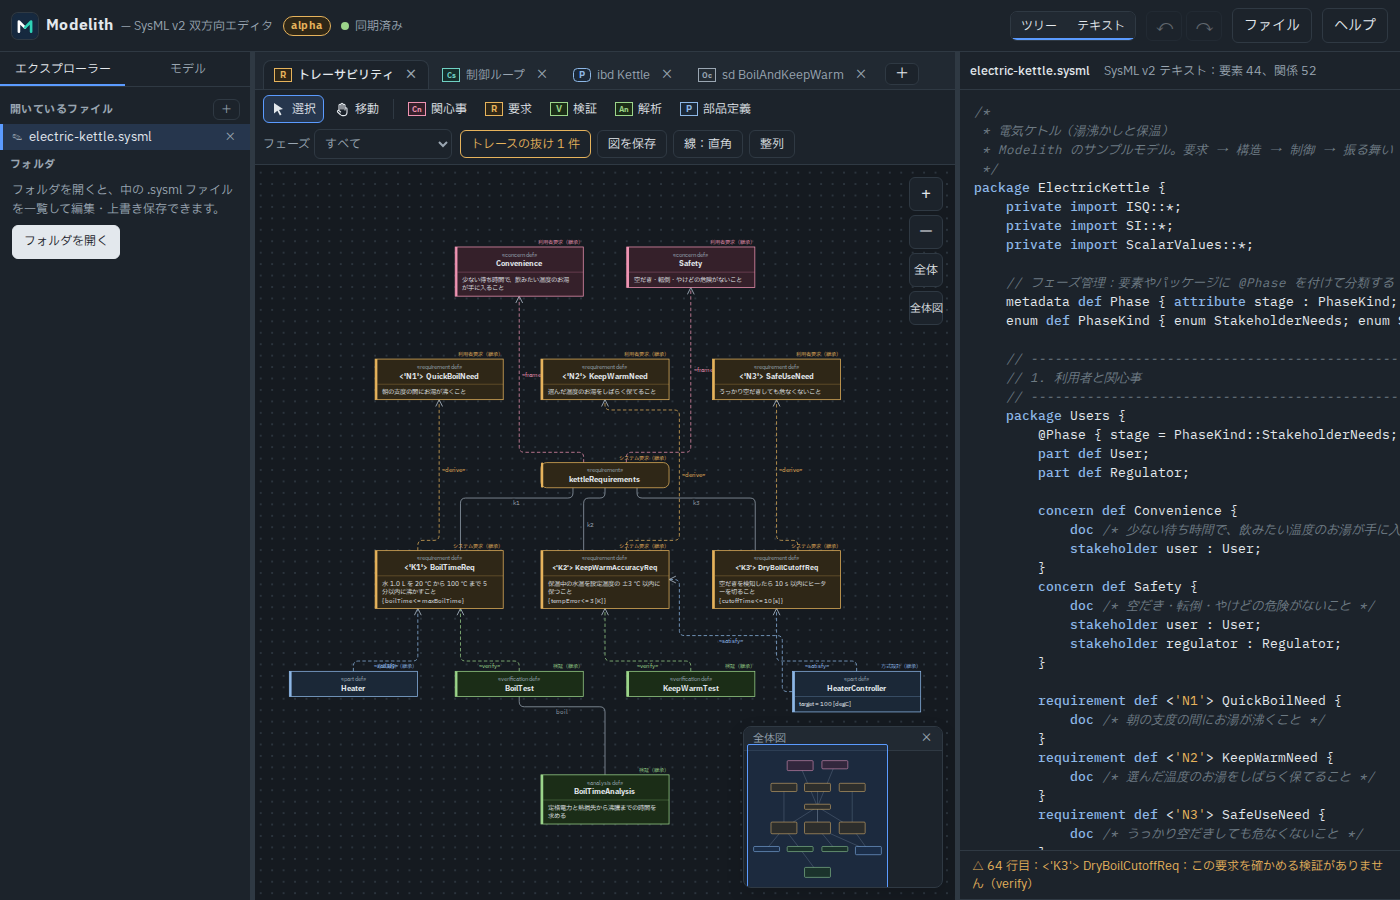
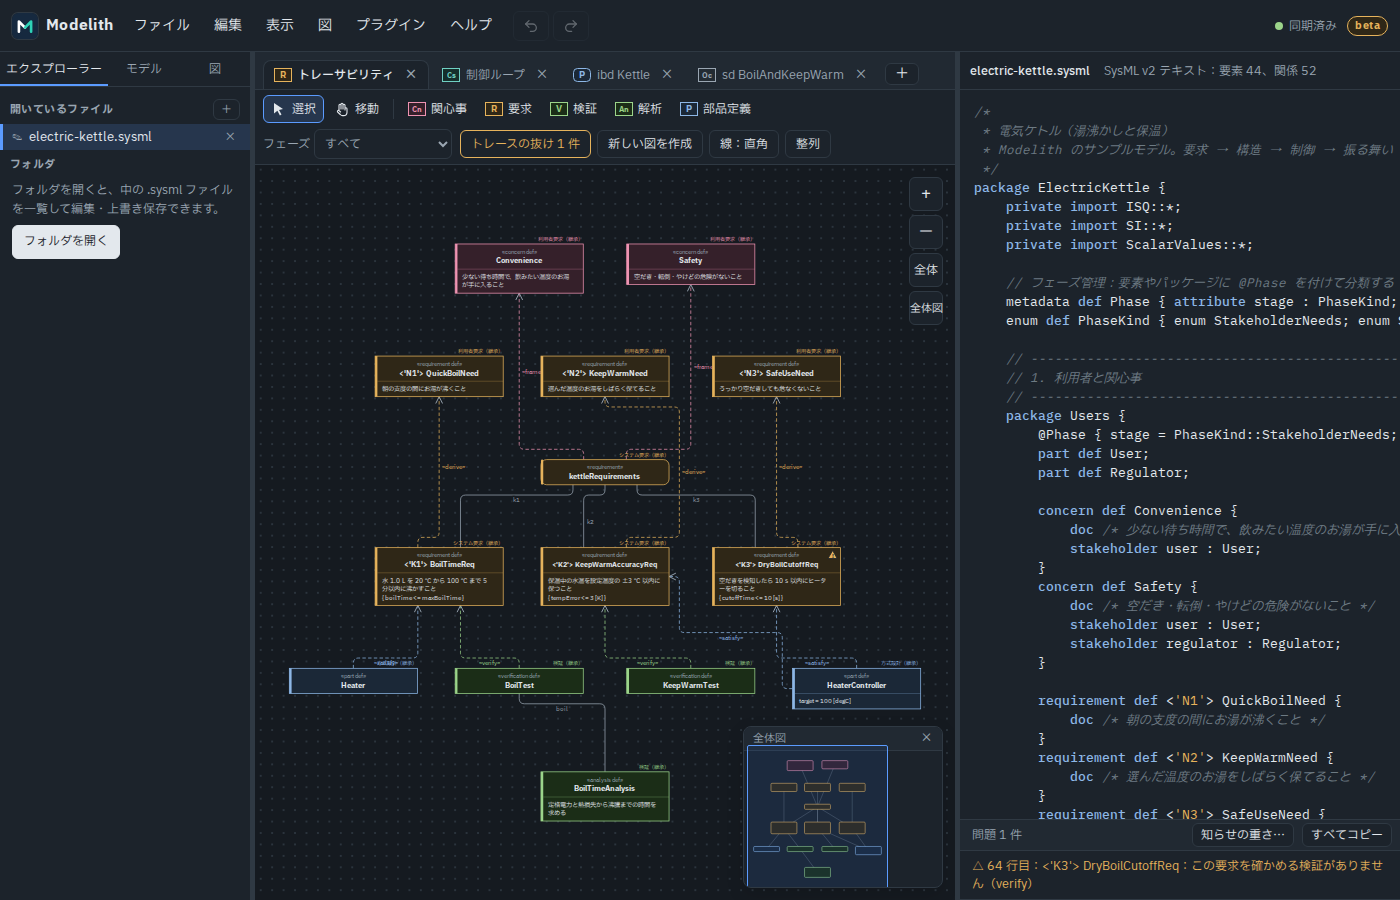
docs(profile): modelith の beta 版に合わせて内容と画面を更新 (#5)
Claude-Session: https://claude.ai/code/session_01QKQkn3Krw3LuV9fFdUHoax

diff --git a/profile/README.md b/profile/README.md
@@ -9,6 +9,7 @@
 
 <p align="center">
   <a href="https://modelith.github.io/modelith/"><b>ブラウザで試す</b></a> &nbsp;|&nbsp;
+  <a href="https://modelith.github.io/">ユーザーマニュアル</a> &nbsp;|&nbsp;
   <a href="https://github.com/modelith/modelith">ソースコード</a> &nbsp;|&nbsp;
   <a href="https://github.com/modelith/modelith/issues/new/choose">フィードバック</a> &nbsp;|&nbsp;
   <a href="https://github.com/sponsors/modelith">スポンサーになる</a>
@@ -37,11 +38,14 @@
 - **書いても、描いても、同じモデル**<br>
   テキストを打てば図に反映し、図で要素や関係を足せばテキストが書き換わります。
 
-- **目的に合わせた 7 つのビュー**<br>
-  トレーサビリティ・構造・制御ループ・内部ブロック図・振る舞い・シーケンスなど、同じモデルを見たい切り口で表示できます。SVG や draw.io 形式への書き出しにも対応しています。
+- **目的に合わせた図**<br>
+  ブロック定義図・内部ブロック図・アクティビティ図・状態遷移図・シーケンス図・トレーサビリティなど、同じモデルを見たい切り口で表示できます。SVG や draw.io 形式でエクスポートすることもできます。
 
 - **要求の抜けに気づける**<br>
-  利用者要求から方式設計・検証までのつながりをたどり、導出・充足・検証の抜けを件数と箇所で示します。
+  利用者要求から方式設計・検証までのつながりをたどり、導出・充足・検証の抜けを示します。
+
+- **SysML v2 を知らなくても読める**<br>
+  テキストのキーワードや図の名前にマウスを乗せると、その意味を表示します。
 
 - **ブラウザを開くだけ**<br>
   インストールもアカウントも不要です。手元のフォルダを VS Code のように開いて、編集・保存できます。
@@ -55,10 +59,11 @@
 | --- | --- | --- |
 | [modelith](https://github.com/modelith/modelith) | エディタ本体（Rust コア・Web アプリ・CLI） | AGPL-3.0 + [Plugin Exception](https://github.com/modelith/modelith/blob/main/PLUGIN-EXCEPTION.md) |
 | [plugin-sdk](https://github.com/modelith/plugin-sdk) | プラグイン向けのインタフェース・型定義 | MIT |
+| [modelith.github.io](https://github.com/modelith/modelith.github.io) | ユーザーマニュアル | MIT |
 
 ## 開発状況
 
-いまは **0.1.0 に向けた alpha 版**です。1 週間ごとに alpha を公開しながら、テストユーザーの声をもとに育てています。今後は CLI・MCP・LSP・プラグイン・サーバへと広げていく予定です。
+いまは **0.1.0 に向けた beta 版**です。機能は固定し、0.1.0 までは不具合の修正だけを行います。テストユーザーの声をもとに育てているので、気になる振る舞いがあればお知らせください。0.1.0 の先は、CLI・MCP・LSP・プラグイン・サーバへと広げていく予定です。
 
 ## 参加する
 
